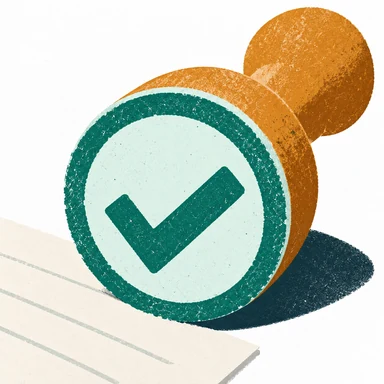
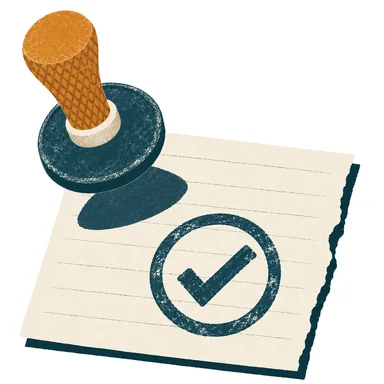
feat(asap): cap dipakai benar — die menghadap kertas, centang jadi tinta
Pemilik benar: cap yang memamerkan centang di permukaan yang menghadap kita itu
salah. Cap menekan dengan die menghadap KE BAWAH; yang terlihat cuma punggung plat,
dan centang hanya ada sebagai tinta di kertas.

Aset:
- stamp-press.webp (baru, 10 frame, 37 KB): plat polos tanpa centang, mampat 2/4/6%
  lalu pulih. Tidak ada lagi centang di muka cap.
- stamp-ink.webp (baru, 3 frame, 24 KB): cetakan tinta cincin + centang, dari
  setengah jadi penuh.
- paid.webp digambar ulang (16 KB): cap terangkat dari kertas, centang hanya sebagai
  tinta.
- stamp-paid.webp dihapus.
- coin-sprite.webp: 12 frame putaran pada sumbu tegak (bukan 16 frame pantulan),
  background-size 1200%, steps(12) 0,96 dtk, bayangan tidak lagi ber-steps.

Urutan perayaan sekarang: cap mampat → cap terangkat (240 ms) → tinta tertinggal.
Sebelum ini cetakan tidak pernah terlihat karena capnya sendiri menutupinya.

Tinta ditahan dengan pembungkus ber-opacity 0 sampai `tintaTunda` habis; tanpa itu
cincin tinta sudah tampil sejak kartu muncul, yang berarti tinta ada sebelum cap
menekan. Terukur lewat probe: tinta baru berpindah sel di 364 ms.

Uji: 60 lulus (bills, app, recap, photo-intents), tsc bersih.

diff --git a/frontend/src/ds/celebration.tsx b/frontend/src/ds/celebration.tsx
@@ -1,5 +1,6 @@
 import { useEffect, useRef } from 'react'
-import stampFrames from '../assets/anim/stamp-paid.webp'
+import inkFrames from '../assets/anim/stamp-ink.webp'
+import stampFrames from '../assets/anim/stamp-press.webp'
 import { buzz } from '../lib/haptics'
 import { SpriteFrames } from './SpriteFrames'
 
@@ -36,6 +37,9 @@ export function Moment({
   keterangan,
   konfeti = false,
   cincin = false,
+  tinta,
+  tintaTunda = 0,
+  kotak = false,
 }: {
   open: boolean
   onDone: () => void
@@ -56,6 +60,13 @@ export function Moment({
   keterangan?: string
   konfeti?: boolean
   cincin?: boolean
+  /** Sprite cetakan tinta yang muncul di bawah benda setelah mendarat. */
+  tinta?: string
+  /** Jeda sebelum cetakan mulai tercetak, milidetik. */
+  tintaTunda?: number
+  /** Kotak art persegi: sprite-nya persegi, jadi kotaknya tidak boleh dipaksa
+   *  112x130 atau capnya ketarik 16% lebih tinggi. */
+  kotak?: boolean
 }) {
   const kertasDepanRef = useRef<HTMLCanvasElement | null>(null)
   const kertasBelakangRef = useRef<HTMLCanvasElement | null>(null)
@@ -198,13 +209,31 @@ export function Moment({
       ) : null}
       <div className="ds-celebrate-card">
         <div
-          className={'ds-celebrate-art' + (latar ? ' is-latar' : '')}
+          className={'ds-celebrate-art' + (latar ? ' is-latar' : '') + (kotak ? ' is-kotak' : '')}
           style={{ height: tinggi }}
           aria-hidden="true"
         >
+          {tinta ? (
+            /* Cetakan disembunyikan sampai capnya mendarat. Tanpa pembungkus ini
+               frame pertama tinta (cincin) sudah tampil sejak kartu muncul, dan
+               perayaannya jadi bohong: tinta ada sebelum capnya menekan. */
+            <span className="ds-celebrate-tinta" style={{ animationDelay: `${tintaTunda}ms` }}>
+              <SpriteFrames
+                src={tinta}
+                frame={3}
+                durasi={170}
+                tunda={tintaTunda}
+                className="ds-celebrate-ink"
+              />
+            </span>
+          ) : null}
           <div
-            className={'ds-celebrate-stamp' + (turun > 0 ? ' is-jatuh' : '')}
-            style={{ animationDuration: `${durasi}ms` }}
+            className={'ds-celebrate-stamp' + (turun > 0 ? ' is-jatuh' : '') + (tinta ? ' is-angkat' : '')}
+            style={
+              tinta
+                ? { animation: `ds-cap-angkat 240ms cubic-bezier(.3,0,.7,1) ${tintaTunda + 150}ms both` }
+                : { animationDuration: `${durasi}ms` }
+            }
           >
             <SpriteFrames src={sprite} frame={frame} durasi={durasi} className="ds-celebrate-sel" />
           </div>
@@ -234,11 +263,12 @@ export function PaidCelebration({
       judul="Lunas!"
       keterangan={keterangan}
       sprite={stampFrames}
-      frame={20}
+      frame={10}
       durasi={640}
-      turun={58}
+      tinta={inkFrames}
+      tintaTunda={330}
+      kotak
       konfeti
-      cincin
     />
   )
 }

diff --git a/frontend/src/app.css b/frontend/src/app.css
@@ -1723,6 +1723,38 @@ p, small, .app-note { text-wrap: pretty; }
   from { transform: translateY(-58px); }
   to { transform: translateY(0); }
 }
+.ds-celebrate-art.is-kotak {
+  width: 130px;
+}
+/* Cetakan tinta: di bawah cap (dirender lebih dulu), jadi terlihat sebagai
+   cetakan di kertas, bukan stiker di atas benda. Capnya sendiri tidak
+   menghilang, jadi yang tampak hanya cincin dan centang yang keluar dari tepi
+   plat — sama seperti cap sungguhan yang diangkat sebentar setelah menekan. */
+.ds-celebrate-tinta {
+  position: absolute;
+  left: 50%;
+  bottom: 6px;
+  width: 104px;
+  height: 104px;
+  margin-left: -52px;
+  opacity: 0;
+  animation: ds-tinta-muncul 80ms linear both;
+}
+.ds-celebrate-ink {
+  position: absolute;
+  inset: 0;
+  background-repeat: no-repeat;
+}
+@keyframes ds-tinta-muncul {
+  to { opacity: 1; }
+}
+/* Cap diangkat setelah menekan: tanpa ini cetakannya tidak pernah terlihat,
+   karena capnya sendiri menutupi seluruh cetakan — persis seperti cap sungguhan
+   yang baru memperlihatkan hasilnya setelah diangkat. */
+@keyframes ds-cap-angkat {
+  from { opacity: 1; transform: translateY(0); }
+  to { opacity: 0; transform: translateY(-10px); }
+}
 .ds-celebrate-ring {
   position: absolute;
   left: 50%;
@@ -1763,4 +1795,5 @@ p, small, .app-note { text-wrap: pretty; }
   .ds-celebrate-scrim, .ds-celebrate-card { animation: none; }
   .ds-celebrate-stamp.is-jatuh { animation: none; }
   .ds-celebrate-ring, .ds-celebrate-kertas { display: none; }
+  .ds-celebrate-tinta { display: none; }
 }

diff --git a/frontend/src/design-system.css b/frontend/src/design-system.css
@@ -1542,9 +1542,11 @@ body.sheet-open .app-body { overflow: hidden; }
   inset: 0;
   z-index: 1;
   background-repeat: no-repeat;
-  background-size: 1600% 100%;
+  /* 12 sel x 112 px = 1344 px. Jarak langkah harus px absolut, bukan persentase:
+     persentase membuat tiap langkah jatuh di antara dua sel. */
+  background-size: 1200% 100%;
   background-position: 0 0;
-  animation: ds-coin-frames 1.28s steps(16) infinite .3s;
+  animation: ds-coin-frames .96s steps(12) infinite .3s;
   will-change: background-position;
 }
 @keyframes ds-wobble {
@@ -1555,7 +1557,7 @@ body.sheet-open .app-body { overflow: hidden; }
 }
 @keyframes ds-coin-frames {
   from { background-position: 0 0; }
-  to { background-position: -1792px 0; }
+  to { background-position: -1344px 0; }
 }
 @keyframes ds-pop-in {
   from { opacity: 0; transform: translateY(8px) scale(.94); }
@@ -1600,7 +1602,7 @@ body.sheet-open .app-body { overflow: hidden; }
   background: #142f3a;
   transform-origin: 50% 50%;
   z-index: 1;
-  animation: ds-coin-shadow 1.28s steps(16) infinite .3s;
+  animation: ds-coin-shadow .96s linear infinite .3s;
 }
 /* 16 langkah, sepadan dengan frame koin: menyusut dan memudar saat koin naik,
    membesar saat mendarat. */

diff --git a/frontend/src/ds/SpriteFrames.tsx b/frontend/src/ds/SpriteFrames.tsx
@@ -21,6 +21,7 @@ export function SpriteFrames({
   frame,
   durasi,
   loop = false,
+  tunda = 0,
   className,
   onSelesai,
 }: {
@@ -29,6 +30,9 @@ export function SpriteFrames({
   /** Lama satu putaran penuh, milidetik. */
   durasi: number
   loop?: boolean
+  /** Tunggu sekian ms sebelum mulai. Dipakai untuk tinta: cetakannya baru muncul
+   *  setelah capnya mendarat, bukan bersamaan dengan capnya turun. */
+  tunda?: number
   className?: string
   onSelesai?: () => void
 }) {
@@ -68,13 +72,15 @@ export function SpriteFrames({
       raf = requestAnimationFrame(langkah)
     }
 
-    mainkan()
+    const tunggu = tunda > 0 ? window.setTimeout(mainkan, tunda) : 0
+    if (tunda <= 0) mainkan()
     tanya.addEventListener('change', mainkan)
     return () => {
+      window.clearTimeout(tunggu)
       tanya.removeEventListener('change', mainkan)
       berhenti()
     }
-  }, [src, frame, durasi, loop])
+  }, [src, frame, durasi, loop, tunda])
 
   return (
     <span

diff --git a/scripts/ratakan-frame.py b/scripts/ratakan-frame.py
@@ -22,16 +22,21 @@ import os
 from PIL import Image
 
 
-def atas(path):
-    """Baris teratas yang bukan latar putih — ukuran seberapa jauh lipatan jalan."""
+def ukuran_benda(path, ukur):
+    """Seberapa jauh gerakannya jalan. Untuk lipatan: baris teratas benda (kertas
+    makin pendek). Untuk benda yang berputar seperti koin: lebarnya."""
     im = Image.open(path).convert('RGB')
     px = im.load()
+    xs, ys = [], []
     for y in range(0, im.height):
-        for x in range(0, im.width, 2):
+        for x in range(0, im.width):
             r, g, b = px[x, y]
             if abs(r - 255) + abs(g - 255) + abs(b - 255) > 40:
-                return y
-    return im.height
+                xs.append(x)
+                ys.append(y)
+    if not xs:
+        return 0
+    return min(ys) if ukur == 'atas' else (max(xs) - min(xs))
 
 
 def transparan(path):
@@ -57,13 +62,19 @@ def main():
     p.add_argument('--pola', default='*.png')
     p.add_argument('--jumlah', type=int, default=24)
     p.add_argument('--keluar', required=True)
+    p.add_argument('--ukur', choices=['atas', 'lebar'], default='atas',
+                   help='atas: tinggi benda (lipatan); lebar: lebar benda (putaran)')
     a = p.parse_args()
 
     berkas = sorted(glob.glob(os.path.join(a.folder, a.pola)))
     if len(berkas) < 2:
         raise SystemExit('butuh minimal dua frame')
-    tinggi = {b: atas(b) for b in berkas}
+    tinggi = {b: ukuran_benda(b, a.ukur) for b in berkas}
     lo, hi = min(tinggi.values()), max(tinggi.values())
+    if hi == lo:
+        raise SystemExit('semua frame berukuran sama; tidak ada gerak untuk diratakan')
+    # Untuk putaran koin, makin lebar = makin jauh dari tepi; progresnya tetap
+    # dibalik supaya urutannya sama seperti frame aslinya.
     progres = {b: (v - lo) / (hi - lo) for b, v in tinggi.items()}
     urut = sorted(berkas, key=lambda k: progres[k])
 

diff --git a/frontend/src/assets/ART_CONTRACT.md b/frontend/src/assets/ART_CONTRACT.md
@@ -36,9 +36,10 @@ Composition/framing: <porsi frame, penempatan, ruang kosong>
 
 | File | Subjek | Tampil | Berat |
 | --- | --- | --- | --- |
-| `anim/coin-sprite.webp` 3584×224 | 16 frame koin memantul, satu baris | 112 px (kotak art) | 62 KB |
+| `anim/coin-sprite.webp` 2688×224 | **12 frame koin berputar** pada sumbu tegak (muka → tepi → muka), satu baris; diputar `steps(12)` 0,96 dtk | 112 px (kotak art) | 81 KB |
 | `anim/scan-frames.webp` 1920×240 | 8 frame struk dengan pita pindai turun | 120 px (Buat · membaca) | 24 KB |
-| `anim/stamp-paid.webp` 1344×260 | 6 frame stempel turun, menekan, lepas | 112 px (perayaan lunas) | 116 KB |
+| `anim/stamp-press.webp` 1280×128 | **10 frame cap menekan**: plat polos (die menghadap ke bawah, tidak kelihatan), mampat 2/4/6%, lalu pulih | 130 px (perayaan lunas) | 37 KB |
+| `anim/stamp-ink.webp` 384×128 | **3 frame cetakan tinta** (cincin → setengah → penuh) yang muncul setelah cap mendarat | 104 px (perayaan lunas) | 24 KB |
 | `anim/bill-closed.webp` 1080×240 | 6 frame struk terlipat | 112×150 px (bill ditutup) | 79 KB |
 | `create-hero.webp` 576 px | struk sobek jadi tiga strip, cangkir, koin, bayangan keras | 120 px (Buat · Dari foto) | 63 KB |
 | `manual.webp` 320 px | struk dan pensil | 120 px (Buat · Ketik manual) | 13 KB |
@@ -49,7 +50,7 @@ Composition/framing: <porsi frame, penempatan, ruang kosong>
 | `home-empty.webp` 512 px | dompet terbuka kosong, dua koin | 216 px (Beranda kosong) | 24 KB |
 | `scan.webp` 384 px | struk di dalam bingkai pindai, satu garis | 120 px (Buat · sedang membaca) | 20 KB |
 | `share.webp` 384 px | struk terlipat jadi pesawat kertas | 120 px (Bill · ajakan bagikan) | 9 KB |
-| `paid.webp` 384 px | stempel dengan centang menghantam struk | 150 px (Bill lunas) | 24 KB |
+| `paid.webp` 384 px | cap terangkat dari kertas, **centang hanya ada sebagai tinta di kertas** (plat cap polos) | 150 px (Bill lunas) | 16 KB |
 | `error.webp` 384 px | struk sobek dua, di depan segitiga amber | 160 px (bill tidak bisa dibuka) | 14 KB |
 | `transfer.webp` 384 px | kartu bank dan koin berbaris | 120 px (sheet pembayar) | 18 KB |
 
